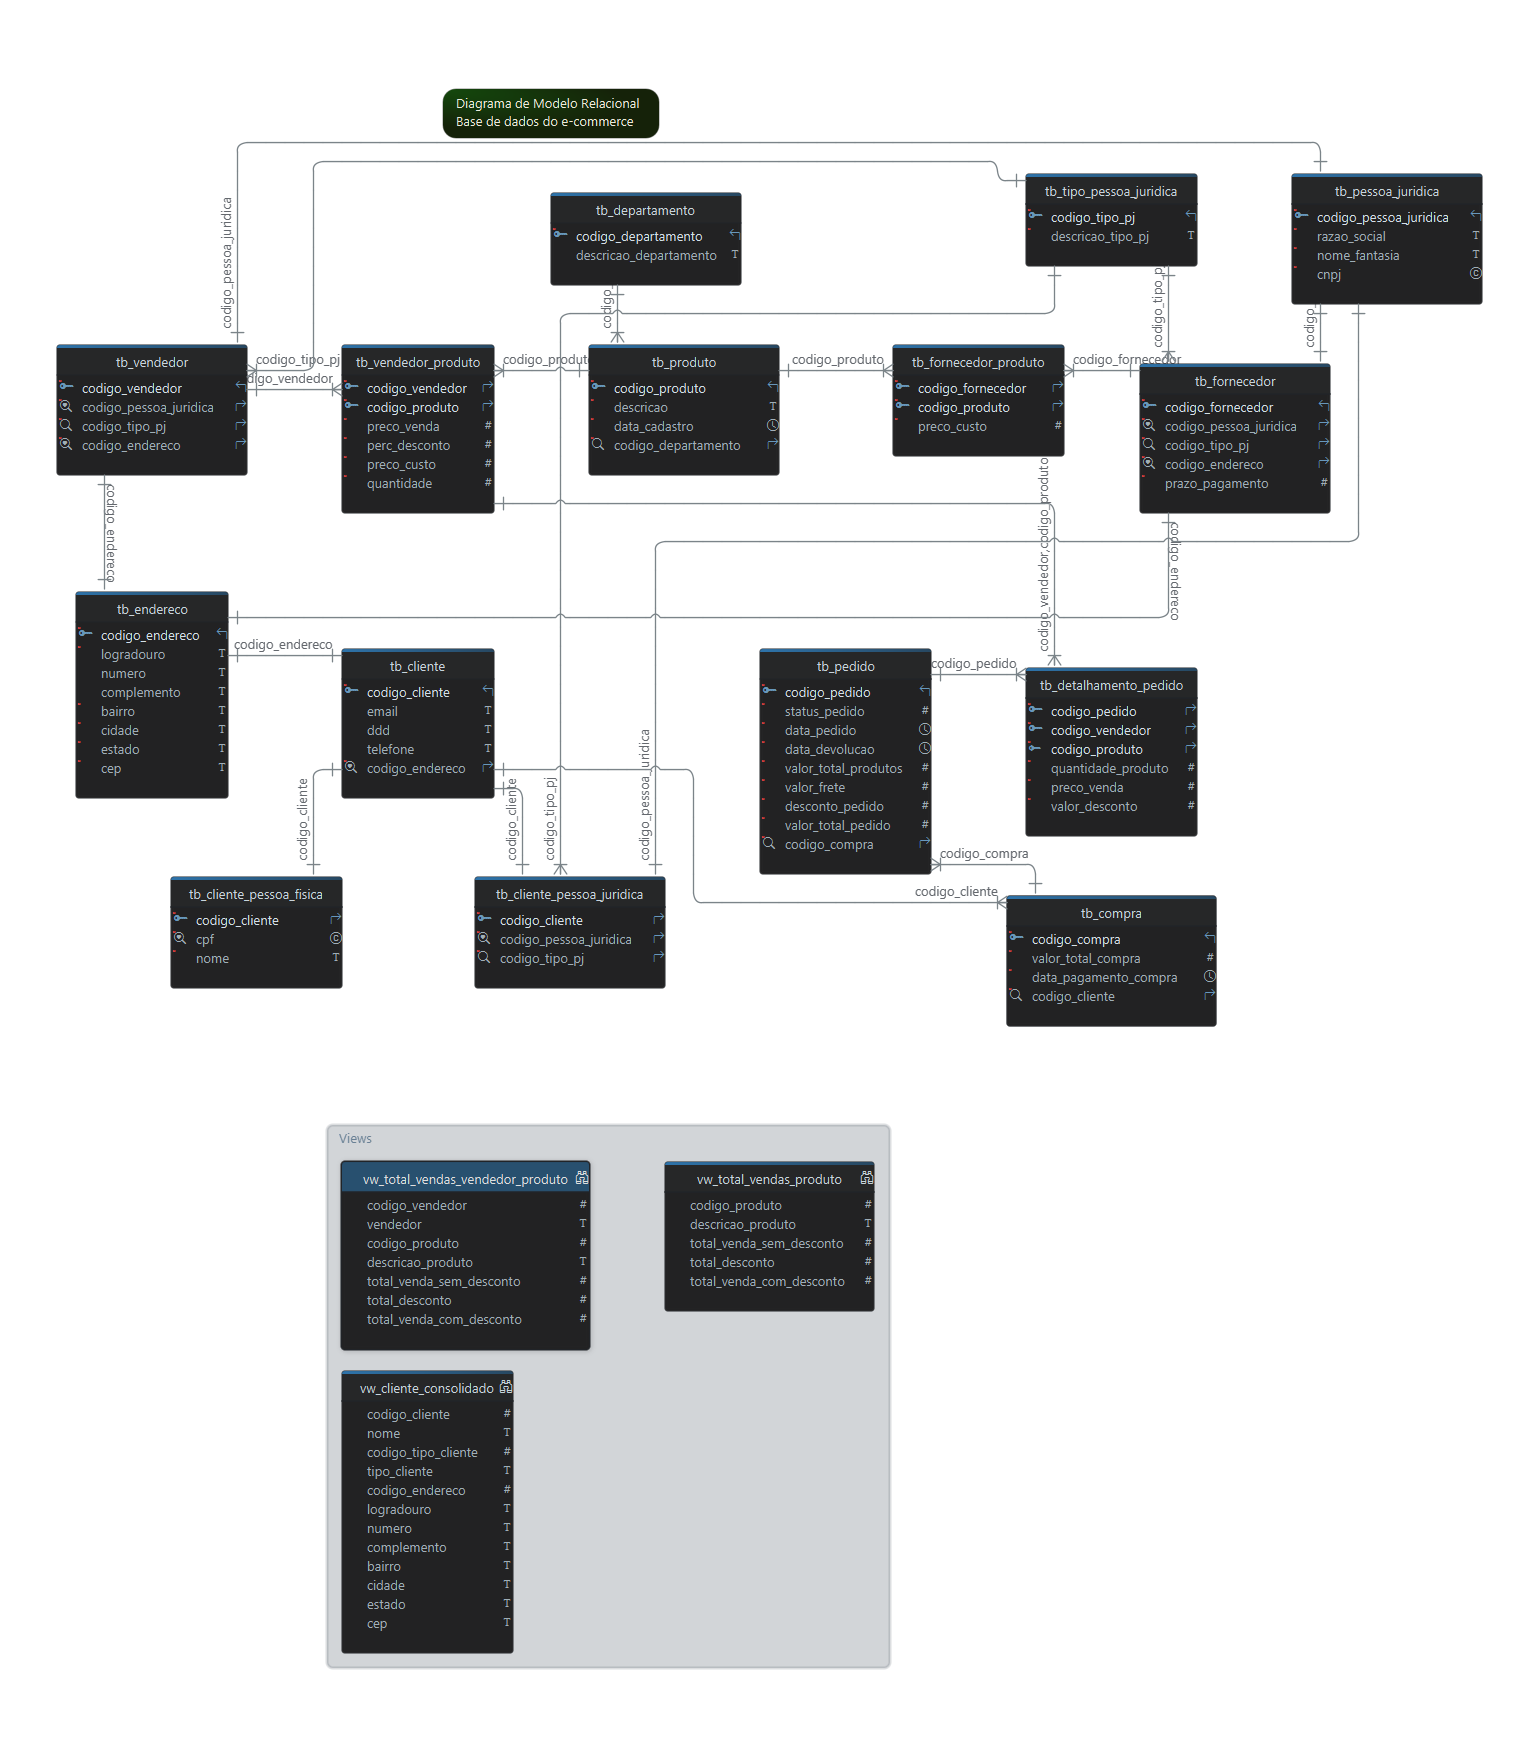
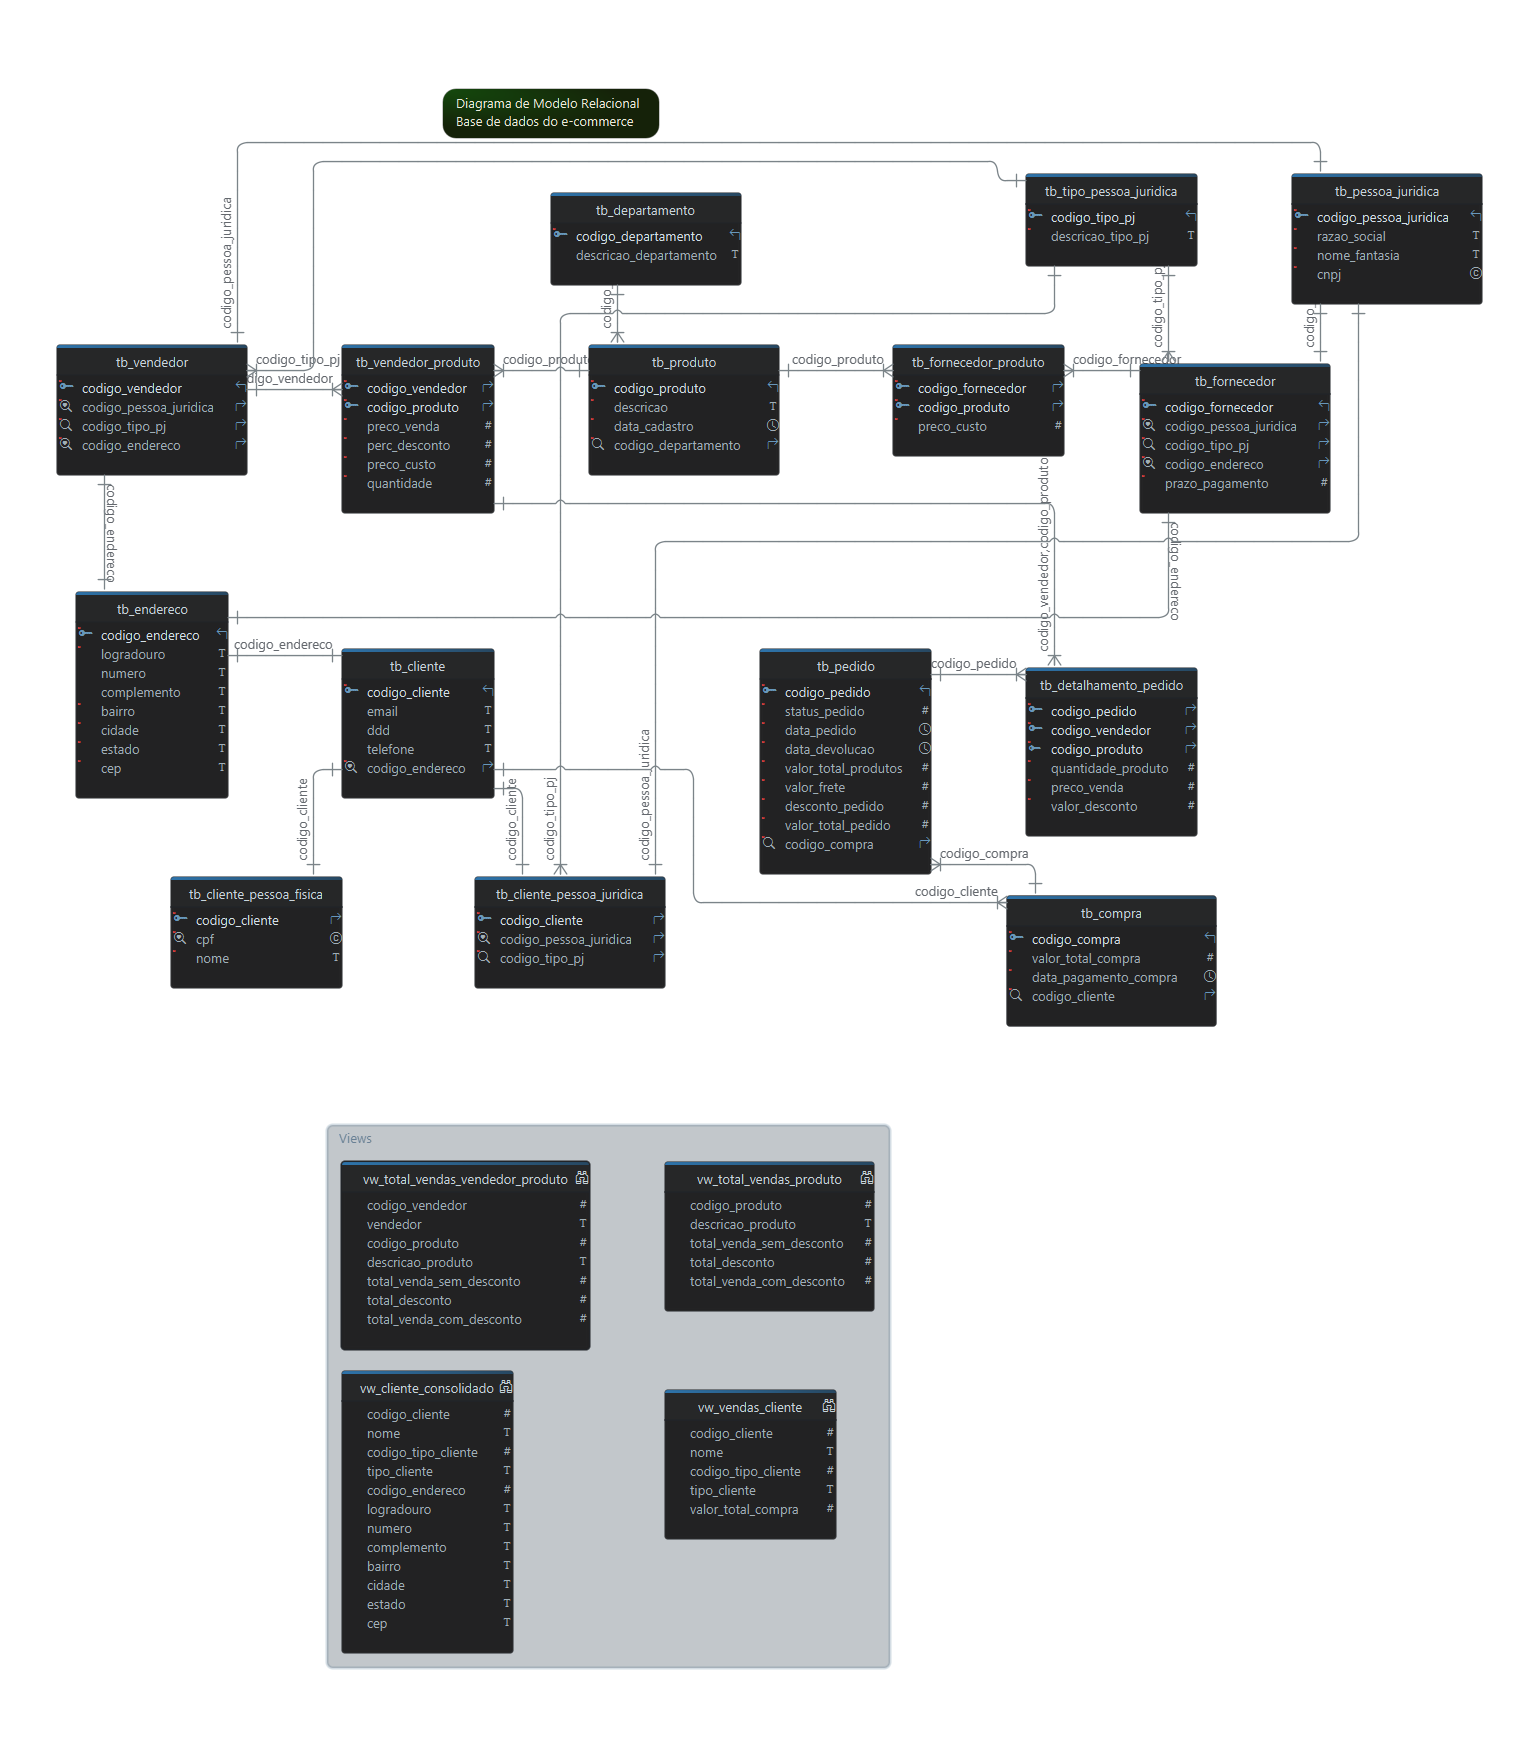
change: Atualiza modelo lógico e-commerce

Changed region(s): [[0.4055, 0.7723, 0.5614, 0.8959], [0.2183, 0.6487, 0.3743, 0.6796]]

diff --git a/e-commerce/docs/modelo_logico_estendido.html b/e-commerce/docs/modelo_logico_estendido.html
@@ -846,6 +846,25 @@ Referred by tb_vendedor ( codigo_tipo_pj ) </title></a>
 <text x='586' y='1296' text-anchor='end' class='colType'>&#35;</text>  <a xlink:href='#curso_ecommerce.vw_total_vendas_vendedor_produto.total_venda_com_desconto'><text id='curso&#95;ecommerce&#46;vw&#95;total&#95;vendas&#95;vendedor&#95;produto&#46;total&#95;venda&#95;com&#95;desconto' x='364' y='1319'>total&#95;venda&#95;com&#95;desconto</text><title>&#10697;  total_venda_com_desconto
      decimal(41,2)</title></a>
 <text x='586' y='1315' text-anchor='end' class='colType'>&#35;</text>
+<!-- == Table 'vw_vendas_cliente' == -->
+<rect id='depict_curso&#95;ecommerce&#46;vw&#95;vendas&#95;cliente' class='entity' style='stroke:#F9FAFC' x='665' y='1378' width='171' height='152' rx='4' ry='4' />
+<rect x='665' y='1378' width='171' height='8' rx='4' ry='4' style='stroke-width:0;fill:#1B5A8C'/>
+<rect x='665' y='1382' width='171' height='29' style='stroke-width:0;fill:#272D33'/>
+<use x='817' y='1387' xlink:href='#view'/>
+<a xlink:href='#curso_ecommerce.vw_vendas_cliente'><text id='depict&#45;curso&#95;ecommerce&#46;vw&#95;vendas&#95;cliente' x='695' y='1399' class='tableHeader' style='fill:#B5D5EE;'>vw&#95;vendas&#95;cliente</text><title>View curso_ecommerce.vw_vendas_cliente
+ ⎯⎯⎯⎯⎯⎯⎯⎯⎯⎯⎯⎯
+      VIEW</title></a>
+  <a xlink:href='#curso_ecommerce.vw_vendas_cliente.codigo_cliente'><text id='curso&#95;ecommerce&#46;vw&#95;vendas&#95;cliente&#46;codigo&#95;cliente' x='687' y='1433'>codigo&#95;cliente</text><title>&#10697;  codigo_cliente
+     int</title></a>
+<text x='833' y='1429' text-anchor='end' class='colType'>&#35;</text>  <a xlink:href='#curso_ecommerce.vw_vendas_cliente.nome'><text id='curso&#95;ecommerce&#46;vw&#95;vendas&#95;cliente&#46;nome' x='687' y='1452'>nome</text><title>&#10697;  nome
+     varchar(120)</title></a>
+<text x='833' y='1448' text-anchor='end' class='colType'>t</text>  <a xlink:href='#curso_ecommerce.vw_vendas_cliente.codigo_tipo_cliente'><text id='curso&#95;ecommerce&#46;vw&#95;vendas&#95;cliente&#46;codigo&#95;tipo&#95;cliente' x='687' y='1471'>codigo&#95;tipo&#95;cliente</text><title>&#10697;  codigo_tipo_cliente
+     int</title></a>
+<text x='833' y='1467' text-anchor='end' class='colType'>&#35;</text>  <a xlink:href='#curso_ecommerce.vw_vendas_cliente.tipo_cliente'><text id='curso&#95;ecommerce&#46;vw&#95;vendas&#95;cliente&#46;tipo&#95;cliente' x='687' y='1490'>tipo&#95;cliente</text><title>&#10697;  tipo_cliente
+     varchar(19)</title></a>
+<text x='833' y='1486' text-anchor='end' class='colType'>t</text>  <a xlink:href='#curso_ecommerce.vw_vendas_cliente.valor_total_compra'><text id='curso&#95;ecommerce&#46;vw&#95;vendas&#95;cliente&#46;valor&#95;total&#95;compra' x='687' y='1509'>valor&#95;total&#95;compra</text><title>&#10697;  valor_total_compra
+     decimal(33,2)</title></a>
+<text x='833' y='1505' text-anchor='end' class='colType'>&#35;</text>
 <!-- == Callout == -->
 <rect class='callout' x='456' y='76' width='209' height='56' rx='19' ry='19'  />
 <text x='484' y='76' class='callout'>
@@ -975,6 +994,7 @@ function searchSVG( searchValue) {
 <li><a href='#curso_ecommerce.vw_cliente_consolidado'/>vw_cliente_consolidado</a>
 <li><a href='#curso_ecommerce.vw_total_vendas_produto'/>vw_total_vendas_produto</a>
 <li><a href='#curso_ecommerce.vw_total_vendas_vendedor_produto'/>vw_total_vendas_vendedor_produto</a>
+<li><a href='#curso_ecommerce.vw_vendas_cliente'/>vw_vendas_cliente</a>
 </ul></ul>
 </div></div><br><br><br>
 <div class='card custom-card'><div class='card-body'><a name='curso_ecommerce' style='cursor:pointer;'><h5 class='card-title text-center'>Schema curso_ecommerce</h5></div></div>
@@ -2039,6 +2059,49 @@ END</pre> </td>	</tr>
 		<td>&nbsp;</td>
 		<td><a name='curso_ecommerce.vw_total_vendas_vendedor_produto.total_venda_com_desconto'>total&#95;venda&#95;com&#95;desconto</a></td>
 		<td class='dataType'> DECIMAL&#40;41&#44;2&#41;  </td>
+		<td> <br>Tags:  </td>
+	</tr>
+</tbody>
+</table></div></div>
+<br><br>
+<div class='card custom-card'><div class='card-body'><a name='curso_ecommerce.vw_vendas_cliente'  onclick="window.scrollTo(465, 1387);var nodes = document.getElementsByClassName('palpable');for (var i = 0; i < nodes.length; i++) { nodes[i].classList.remove('palpable');}; document.getElementById('depict_curso_ecommerce.vw_vendas_cliente').classList.add('palpable'); return false;" style='cursor:pointer;'><h5 class='text-center'>View vw_vendas_cliente</h5></a>
+<p class='text-muted'>VIEW<br>Tags: </p>
+<table class='table table-sm small' style='table-layout: fixed; word-wrap: break-word;'>
+<thead>
+	<tr>
+		<th colspan='4'><a name='vw_vendas_cliente'>Query</a></th></tr>
+</thead>
+<tbody>
+	<tr><td colspan='4'><pre style='white-space: pre-wrap;word-wrap: break-word;'>CREATE VIEW &#36;&#123;nameWithSchemaName&#125; AS select &#96;curso&#95;ecommerce&#96;&#46;&#96;cc&#96;&#46;&#96;codigo&#95;cliente&#96; AS &#96;codigo&#95;cliente&#96;&#44;&#96;curso&#95;ecommerce&#96;&#46;&#96;cc&#96;&#46;&#96;nome&#96; AS &#96;nome&#96;&#44;&#96;curso&#95;ecommerce&#96;&#46;&#96;cc&#96;&#46;&#96;codigo&#95;tipo&#95;cliente&#96; AS &#96;codigo&#95;tipo&#95;cliente&#96;&#44;&#96;curso&#95;ecommerce&#96;&#46;&#96;cc&#96;&#46;&#96;tipo&#95;cliente&#96; AS &#96;tipo&#95;cliente&#96;&#44;sum&#40;&#96;cpr&#96;&#46;&#96;valor&#95;total&#95;compra&#96;&#41; AS &#96;valor&#95;total&#95;compra&#96; from &#40;&#96;curso&#95;ecommerce&#96;&#46;&#96;tb&#95;compra&#96; &#96;cpr&#96; join &#96;curso&#95;ecommerce&#96;&#46;&#96;vw&#95;cliente&#95;consolidado&#96; &#96;cc&#96; on&#40;&#40;&#96;cpr&#96;&#46;&#96;codigo&#95;cliente&#96; &#61; &#96;curso&#95;ecommerce&#96;&#46;&#96;cc&#96;&#46;&#96;codigo&#95;cliente&#96;&#41;&#41;&#41; group by &#96;curso&#95;ecommerce&#96;&#46;&#96;cc&#96;&#46;&#96;codigo&#95;cliente&#96;&#44;&#96;curso&#95;ecommerce&#96;&#46;&#96;cc&#96;&#46;&#96;nome&#96;&#44;&#96;curso&#95;ecommerce&#96;&#46;&#96;cc&#96;&#46;&#96;codigo&#95;tipo&#95;cliente&#96;&#44;&#96;curso&#95;ecommerce&#96;&#46;&#96;cc&#96;&#46;&#96;tipo&#95;cliente&#96; order by &#96;valor&#95;total&#95;compra&#96; desc</pre></td></tr>
+<tr><th style='width:5%'>Idx</th><th style='width:20%'>Column Name</th><th style='width:23%'>Data Type</th><th style='width:52%'>Description</th></tr>
+	<tr>
+		<td>&nbsp;</td>
+		<td><a name='curso_ecommerce.vw_vendas_cliente.codigo_cliente'>codigo&#95;cliente</a></td>
+		<td class='dataType'> INT UNSIGNED  </td>
+		<td> <br>Tags:  </td>
+	</tr>
+	<tr>
+		<td>&nbsp;</td>
+		<td><a name='curso_ecommerce.vw_vendas_cliente.nome'>nome</a></td>
+		<td class='dataType'> VARCHAR&#40;120&#41;  </td>
+		<td> <br>Tags:  </td>
+	</tr>
+	<tr>
+		<td>&nbsp;</td>
+		<td><a name='curso_ecommerce.vw_vendas_cliente.codigo_tipo_cliente'>codigo&#95;tipo&#95;cliente</a></td>
+		<td class='dataType'> INT  </td>
+		<td> <br>Tags:  </td>
+	</tr>
+	<tr>
+		<td>&nbsp;</td>
+		<td><a name='curso_ecommerce.vw_vendas_cliente.tipo_cliente'>tipo&#95;cliente</a></td>
+		<td class='dataType'> VARCHAR&#40;19&#41;  </td>
+		<td> <br>Tags:  </td>
+	</tr>
+	<tr>
+		<td>&nbsp;</td>
+		<td><a name='curso_ecommerce.vw_vendas_cliente.valor_total_compra'>valor&#95;total&#95;compra</a></td>
+		<td class='dataType'> DECIMAL&#40;33&#44;2&#41;  </td>
 		<td> <br>Tags:  </td>
 	</tr>
 </tbody>
